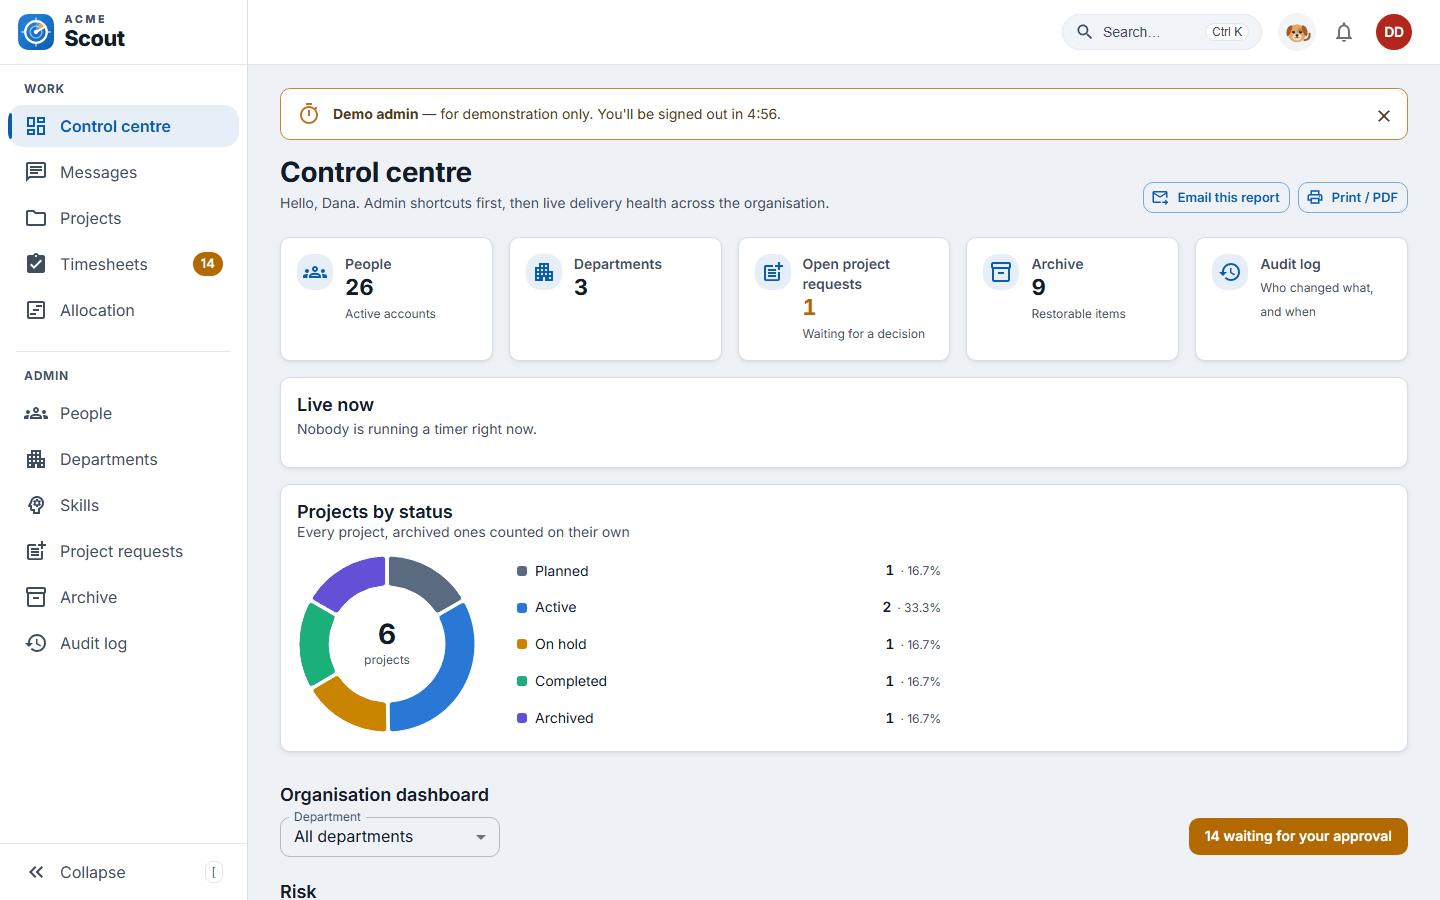
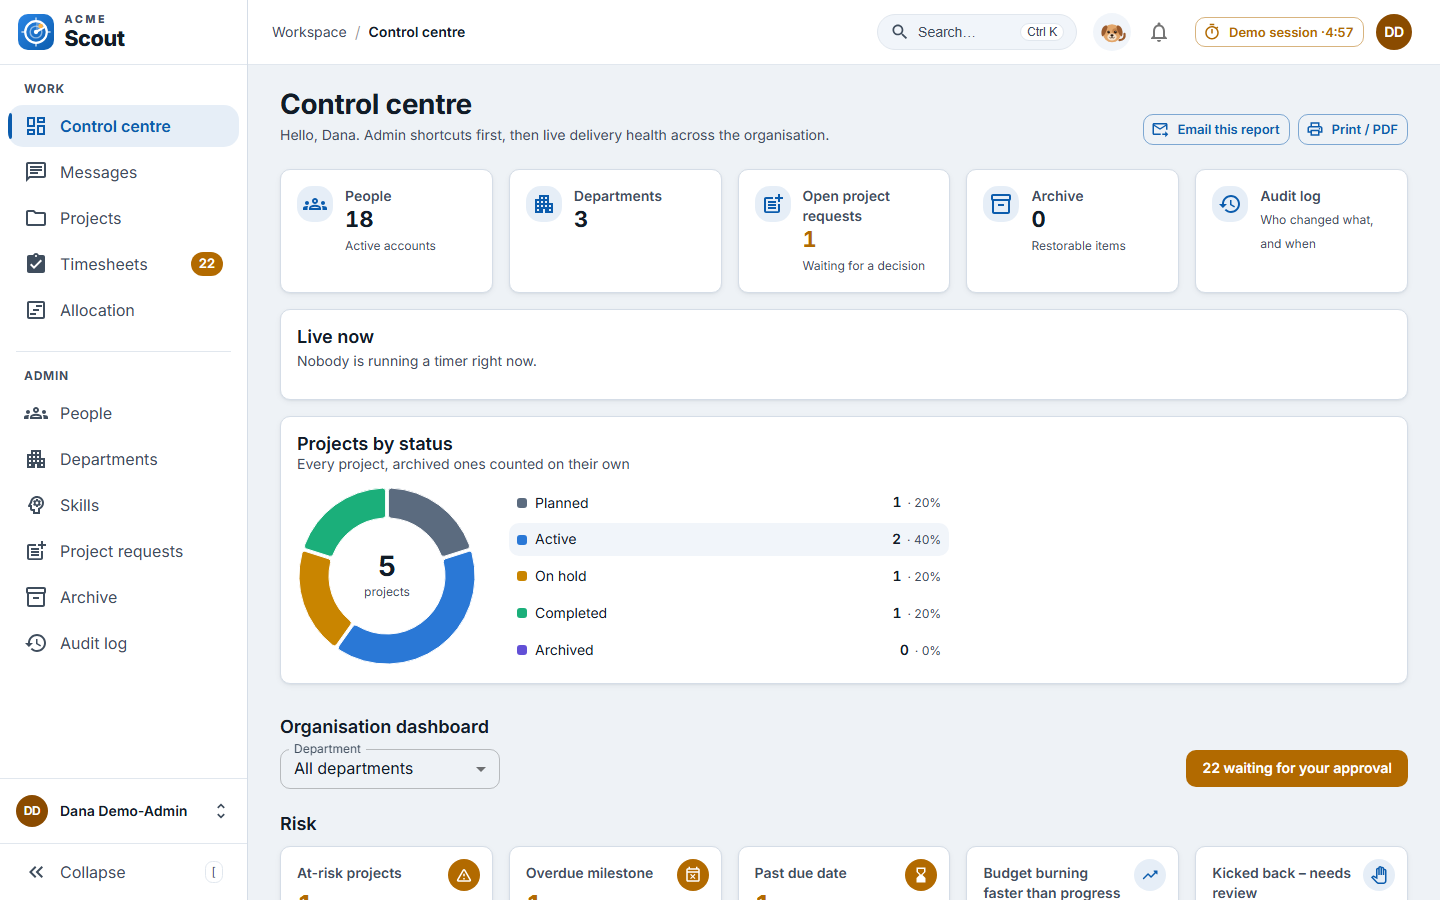
Shell: docs, screenshots and journeys for the new shell

diff --git a/README.md b/README.md
@@ -12,7 +12,7 @@ Scout is a project tracking platform for ACME Inc. It gives admins, project mana
 |---|---|
 | **Live site** | https://d3ucnz03j0sngl.cloudfront.net |
 | **Stack** | React 19 · Material UI 9 · React Responsive · Python 3 on AWS Lambda · Aurora PostgreSQL 17 |
-| **Tests** | 1,173 backend (387 unit · 786 integration; 97% coverage at the last full run) · 928 frontend component (72 files) · 6 end-to-end (3 journeys × desktop + mobile); frontend and end-to-end all passing on 16 Oct — see [TESTING.md](docs/project/TESTING.md) |
+| **Tests** | 1,173 backend (387 unit · 786 integration; 97% coverage at the last full run) · 979 frontend component (73 files) · 6 end-to-end (3 journeys × desktop + mobile); frontend and end-to-end all passing on 16 Oct — see [TESTING.md](docs/project/TESTING.md) |
 | **Source** | https://github.com/RootMoataz/citi-overwatch (the repository keeps its original name for now) |
 
 ## What it does
@@ -35,6 +35,7 @@ Highlights:
 - **Approvals.** The Timesheets page groups pending hours by person-week. Each entry shows its budget impact: the cost of the request, the remaining budget before and after, and a 4-week-pace forecast.
 - **Hour-tracking safeguards.** A start/stop timer on My week and the timesheet (one at a time, a live clock in the header, stopped at midnight) whose hours pre-fill a locked timesheet cell until **Submit** sends them (a **Request a change** goes to the manager), a **Live now** card where managers watch running timers tick and can stop one with a message, warnings at 100% of the 8h day, the milestone's estimate or the 40h week (the manager is alerted at 125%), proof of work on new hours (a work note or that day's progress update), and red flags for approvers (same hours daily, long days, closed milestones, backdated, over plan, no activity, no proof) with a "Tracked 68% · Manual 32%" share per person-week ([Logic walkthrough §28](docs/project/LOGIC_WALKTHROUGH.md#28-hour-tracking-safeguards-timers-proof-of-work-red-flags)).
 - **Nothing is ever deleted.** Records are archived and an admin can restore them. Every change is written to the **audit log**.
+- **One shell on every page.** A sidebar (Work for everyone, Admin for admins) with your name at the bottom and a Collapse control (press `[`); breadcrumbs across the top, or a back link on phones; then a search field (Ctrl K), your running timer, Puppy, notifications and your avatar. The name at the bottom of the sidebar and the avatar open the same account menu: profile, photo, theme and sign out.
 - **Responsive.** A sidebar on desktop, a drawer on phones, and tables that become cards on small screens.
 
 - **Planning and milestones.** Department templates, a Backlog → Ready → Scheduled planning board with a finalize checklist, priority and difficulty, skills, auto-routing when work is handed in or completed, and kickbacks when an employee is blocked.
@@ -96,8 +97,8 @@ Screenshots from the live site with the demo data (light mode unless noted).
 
 | | |
 |---|---|
-| ![Control centre with the demo admin's countdown banner, admin shortcut tiles, Live now and projects by status](docs/images/control-centre.png) | ![Timesheets HR submission tab: pick a pay period, totals, and past submissions with a payroll CSV](docs/images/hr-submission.png) |
-| **Control centre** (the 5-minute demo banner is visible) | **HR submission**: pay periods, corrections and payroll CSV |
+| ![Control centre with the demo admin's countdown pill, admin shortcut tiles, Live now and projects by status](docs/images/control-centre.png) | ![Timesheets HR submission tab: pick a pay period, totals, and past submissions with a payroll CSV](docs/images/hr-submission.png) |
+| **Control centre** (the 5-minute demo pill is visible in the top bar) | **HR submission**: pay periods, corrections and payroll CSV |
 | ![Puppy's Do it tab for the public demo admin: Create user accounts replaced by the notice "Creating accounts is disabled in the public demo."](docs/images/puppy-create-users.png) | |
 | **Puppy → Do it → Create user accounts**: a real admin gets the create-accounts conversation; the public demo admin gets this notice | |
 
@@ -143,8 +144,8 @@ Open http://localhost:3000 and sign in with a demo login. Locally, emails aren't
 
 The **Admin demo** (the sign-in page's "Admin" button) is a separate public account, Dana Demo-Admin, not the real admin login, whose password stays private. Because its password is published, the server limits it:
 
-- **5-minute sessions.** It is signed out 5 minutes after sign-in, enforced by the server: its access token expires by then and refreshing can't extend it. The app shows a countdown banner and, at the end, "Your 5-minute demo session has ended." on the sign-in page.
-- **Restricted actions** (`403 DEMO_RESTRICTED`, "Disabled in the public demo."): changing its own password, name, email or photo; creating, editing, archiving or restoring people, password resets for anyone, or removing someone's photo; archiving or restoring projects; any department change; anything that changes credentials or submits timesheets to HR. The app shows these buttons disabled with a tooltip.
+- **5-minute sessions.** It is signed out 5 minutes after sign-in, enforced by the server: its access token expires by then and refreshing can't extend it. The top bar shows a "Demo session · m:ss" pill that counts down (it opens a short explanation, and a screen reader hears one notice at 1:00) and, at the end, "Your 5-minute demo session has ended." on the sign-in page.
+- **Restricted actions** (`403 DEMO_RESTRICTED`, "Disabled in the public demo."): changing its own password, name, email or photo; creating, editing, archiving or restoring people, password resets for anyone, or removing someone's photo; archiving or restoring projects; any department change; anything that changes credentials or submits timesheets to HR. The app shows these buttons disabled with a tooltip, and People, Departments, Skills and Archive open with a "Demo access ·" notice saying what is unavailable.
 - **Still allowed:** everything read-only, plus the normal admin workflow: approving and rejecting hours, deciding project requests, creating and editing projects and milestones, archiving and restoring milestones, staffing, messages and notifications.
 - **Sign-in:** like the other demo logins it never locks after wrong passwords; instead each network address gets 20 Admin-demo sign-ins a minute.
 
@@ -169,7 +170,7 @@ Connection settings come from `POSTGRES_HOST`, `POSTGRES_PORT`, `POSTGRES_USER`,
 
 ```bash
 cd backend/v1 && python -m pytest --cov=app              # 1,173 unit + integration tests against local Postgres
-cd frontend && npm test                                  # 928 component tests (Vitest + Testing Library)
+cd frontend && npm test                                  # 979 component tests (Vitest + Testing Library)
 cd frontend && npx playwright install chromium webkit    # once
 cd frontend && npm run e2e                               # 3 journeys × desktop Chrome and iPhone 13 (WebKit)
 cd frontend && npm run lint

diff --git a/docs/project/TESTING.md b/docs/project/TESTING.md
@@ -12,10 +12,10 @@ The tests are built for **debugging**, not only for a green tick:
 | Rules (unit) | pytest | part of 387 unit tests | A business rule is wrong: at-risk, over-40, cycles, the capacity cap, usernames, milestone status, priority, routing, claims, planning checks, messaging permissions, insights, reminders, timers and rounding, timer drafts and locks, over-limit thresholds, proof of work, red flags, the PNG sanitiser, or the password policy. No database is involved |
 | Core (unit) | pytest | part of 387 unit tests | The HTTP envelope, router guards, request IDs, hashing and tokens, or the SES fail-fast behaviour |
 | API (integration) | pytest + real PostgreSQL 17 | 786 | An endpoint is wrong: permissions (401/403/404), the executive and public demo guards, validation, archiving, an audit row, a race-safe update, or what one role can see vs another |
-| Frontend (component) | Vitest + React Testing Library + MSW | 977 (73 files) | A screen is wrong: form gating, loading/empty/error states, role-based hiding, or the payload sent to the API |
+| Frontend (component) | Vitest + React Testing Library + MSW | 979 (73 files) | A screen is wrong: form gating, loading/empty/error states, role-based hiding, or the payload sent to the API |
 | End-to-end | Playwright | 3 journeys × 2 devices | The pieces don't fit together in a real browser: real API, real database, real cookies |
 
-Counts as of 2026-10-16: **1,173 backend** (387 unit, 786 integration, collected; 97% coverage at the last full run) and **977 frontend** in 73 files, plus **6 end-to-end**; the frontend and end-to-end suites all pass. Four date-dependent backend tests fail when the suite is run after 8 pm New York time (see [Known issue](#known-issue-date-dependent-backend-tests)). Results are under [Current results](#current-results-2026-10-16); older dated results further down are snapshots taken at the time.
+Counts as of 2026-10-16: **1,173 backend** (387 unit, 786 integration, collected; 97% coverage at the last full run) and **979 frontend** in 73 files, plus **6 end-to-end**; the frontend and end-to-end suites all pass. Four date-dependent backend tests fail when the suite is run after 8 pm New York time (see [Known issue](#known-issue-date-dependent-backend-tests)). Results are under [Current results](#current-results-2026-10-16); older dated results further down are snapshots taken at the time.
 
 **Fail-closed guard tests.** Two integration tests walk every registered write route (66 of 114 routes): [`test_public_demo.py`](../../backend/v1/tests/integration/test_public_demo.py) fails while any write route is neither allowed nor denied for the public demo admin, and [`test_executive.py`](../../backend/v1/tests/integration/test_executive.py) fails if the set of routes that let an executive write differs from the expected list, and checks that no executive response carries `salary` or `hourly_rate`. A new endpoint can't ship without a decision for both.
 
@@ -96,7 +96,7 @@ tests/integration: 786 tests
 
 # frontend: npx vitest run
  Test Files  73 passed (73)
-      Tests  977 passed (977)
+      Tests  979 passed (979)
 
 # frontend: npm run lint && npm run build
 no problems; built in 9.68s

diff --git a/docs/project/DEMO_SCRIPT.md b/docs/project/DEMO_SCRIPT.md
@@ -193,8 +193,9 @@ problem; show `executive.png` and `audit.png`.
 
 Sign out, click **Admin**. Sign in right before this section: the session lasts 5 minutes.
 
-1. Close the **Welcome to the public demo admin** dialog (**Got it**). Point at the banner: "Demo admin — for
-   demonstration only. You'll be signed out in 4:5x."
+1. Close the **Welcome to the public demo admin** dialog (**Got it**). Point at the **Demo session · 4:5x** pill
+   in the top bar; press it to read "Public demo admin. Some actions are disabled, and you'll be signed out when the
+   timer ends."
 2. **Control centre (READ).** Admin shortcut tiles above the organisation dashboard.
 3. **Locked buttons (READ).** Open **People** or **Departments**: edit, archive and create buttons are disabled with
    the tooltip "Disabled in the public demo". Say: "The server refuses them with `403 DEMO_RESTRICTED`; the screen
@@ -265,7 +266,7 @@ Say:
 > salaries are stripped from every executive response; photos are rebuilt from checked pixels by a pure-Python PNG
 > sanitiser, so nothing uploaded is served as-is.
 >
-> Tests: 1,173 backend tests (97% coverage at the last full run), 928 frontend component tests, and 6 end-to-end runs on desktop and
+> Tests: 1,173 backend tests (97% coverage at the last full run), 979 frontend component tests, and 6 end-to-end runs on desktop and
 > iPhone; the frontend and end-to-end suites all passed on 16 October.
 >
 > Next: server-side email needs an SES endpoint, which is waiting on the instructors, and the GitHub repository gets
@@ -306,7 +307,7 @@ One open kickback per milestone and one running timer per person are enforced by
 submissions keep a frozen copy of each payroll CSV.
 
 **Testing strategy?** Test-first. Business rules are pure functions with exhaustive edge cases (387 unit tests).
-786 integration tests run against a real PostgreSQL 17, because mocks hide SQL bugs. 928 component tests use Vitest
+786 integration tests run against a real PostgreSQL 17, because mocks hide SQL bugs. 979 component tests use Vitest
 and MSW, where an unhandled request fails the test. 6 Playwright runs cover 3 journeys on desktop Chrome and iPhone
 13 (these and the component tests all passed on 16 October). Two fail-closed tests walk every write route for the executive and demo-admin guards.
 

diff --git a/docs/project/USER_STORIES.md b/docs/project/USER_STORIES.md
@@ -439,6 +439,14 @@ Each panel is titled with the question it answers, and the panels are labelled r
 - Dashboard panels are labelled regions.
 - Colours come from one theme, with contrast checked against WCAG AA.
 
+### X3. Know where I am (R)
+- **Success:** every page has breadcrumbs (a `Breadcrumb` navigation): "Workspace" or, for an admin's pages, "Administration", then the page, and for a project or person its name; the last crumb is the current page. Earlier crumbs are links, and the root is plain text. On a phone the top bar shows a back link to the parent instead ("‹ Projects").
+- **Loading:** a short skeleton stands in for the name.
+- **Failure:** a project or person that can't be loaded shows "Not found" as its last crumb.
+
+### X4. One account menu (R)
+- **Success:** my name at the bottom of the sidebar (or just my avatar when it's collapsed) and the avatar in the top bar open the same menu: My profile, Profile photo, Theme (Light, Dark, System) and Sign out. The top bar reads Search, running timer, Puppy, notifications, then the avatar.
+
 ---
 
 ## Stories added after the first release
@@ -605,7 +613,7 @@ Everything below was built after the first deploy and is live. **Status** is **D
 
 #### V1. Try the admin view without the real admin password (U) — Done
 **As** a visitor, **I want** a public Admin demo **so that** I can see the admin experience safely.
-- **Success:** a welcome dialog, then a countdown banner ("You'll be signed out in 4:49"); approving hours, deciding requests, editing projects and milestones, staffing and messages work normally.
+- **Success:** a welcome dialog, then a "Demo session · 4:49" pill in the top bar that counts down and opens a short explanation (a screen reader hears one notice at 1:00); People, Departments, Skills and Archive carry a "Demo access ·" notice; approving hours, deciding requests, editing projects and milestones, staffing and messages work normally.
 - **Failure:** restricted actions are disabled with "Disabled in the public demo." (`403 DEMO_RESTRICTED` if called directly); after 5 minutes the session ends with "Your 5-minute demo session has ended."
 
 ### Operator

diff --git a/docs/project/LOGIC_WALKTHROUGH.md b/docs/project/LOGIC_WALKTHROUGH.md
@@ -859,8 +859,11 @@ demo account per rolling minute (`429 RATE_LIMITED`), counted in `demo_login_att
 caller can set the header to dodge the limit, but can't limit anyone else without knowing their address.
 
 **In the app.** [`app/DemoSession.jsx`](../../frontend/src/app/DemoSession.jsx) shows a one-time welcome dialog and a
-banner "Demo admin — for demonstration only. You'll be signed out in 4:32." with a live countdown; hiding it leaves a
-counting chip in the header that brings it back. [`auth/SessionProvider.jsx`](../../frontend/src/auth/SessionProvider.jsx)
+pill in the top bar, "Demo session · 4:32", counting down to `session_expires_at`; it turns red under 1:00 and opens
+a popover ("Public demo admin. Some actions are disabled, and you'll be signed out when the timer ends."). Its name
+carries the time left ("Demo session, signed out in 4 minutes 32 seconds") and a polite live region says "1 minute
+left in the demo session" once, at 1:00, never every second. People, Departments, Skills and Archive also open with a
+"Demo access ·" notice saying what is unavailable. [`auth/SessionProvider.jsx`](../../frontend/src/auth/SessionProvider.jsx)
 signs out at `session_expires_at` (or when a refresh answers `DEMO_SESSION_EXPIRED`) and the sign-in page says "Your
 5-minute demo session has ended." [`lib/permissions.js`](../../frontend/src/lib/permissions.js) mirrors the denylist
 (`demoBlocks`), and [`components/DemoLock.jsx`](../../frontend/src/components/DemoLock.jsx) shows those buttons
